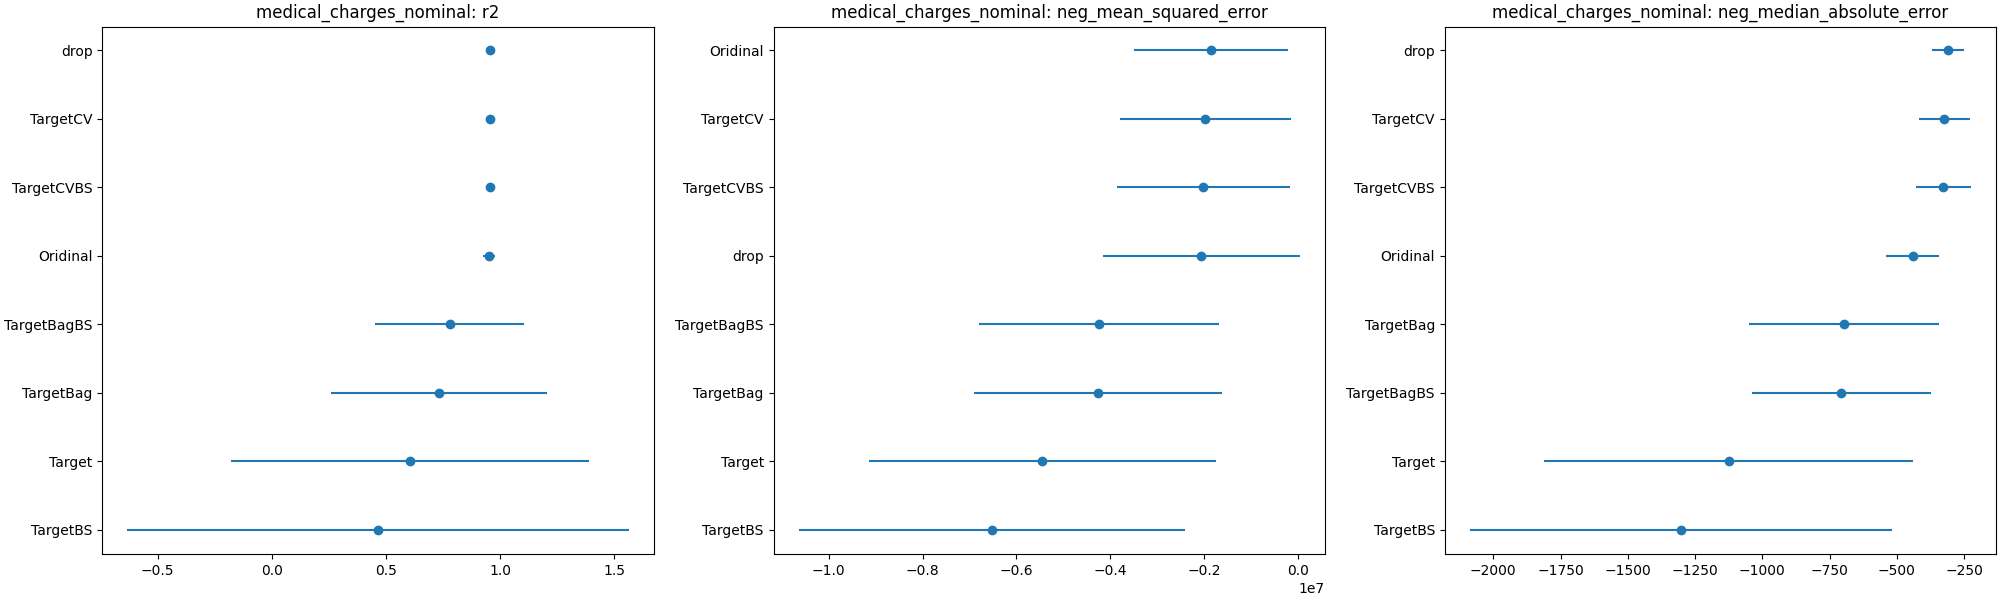
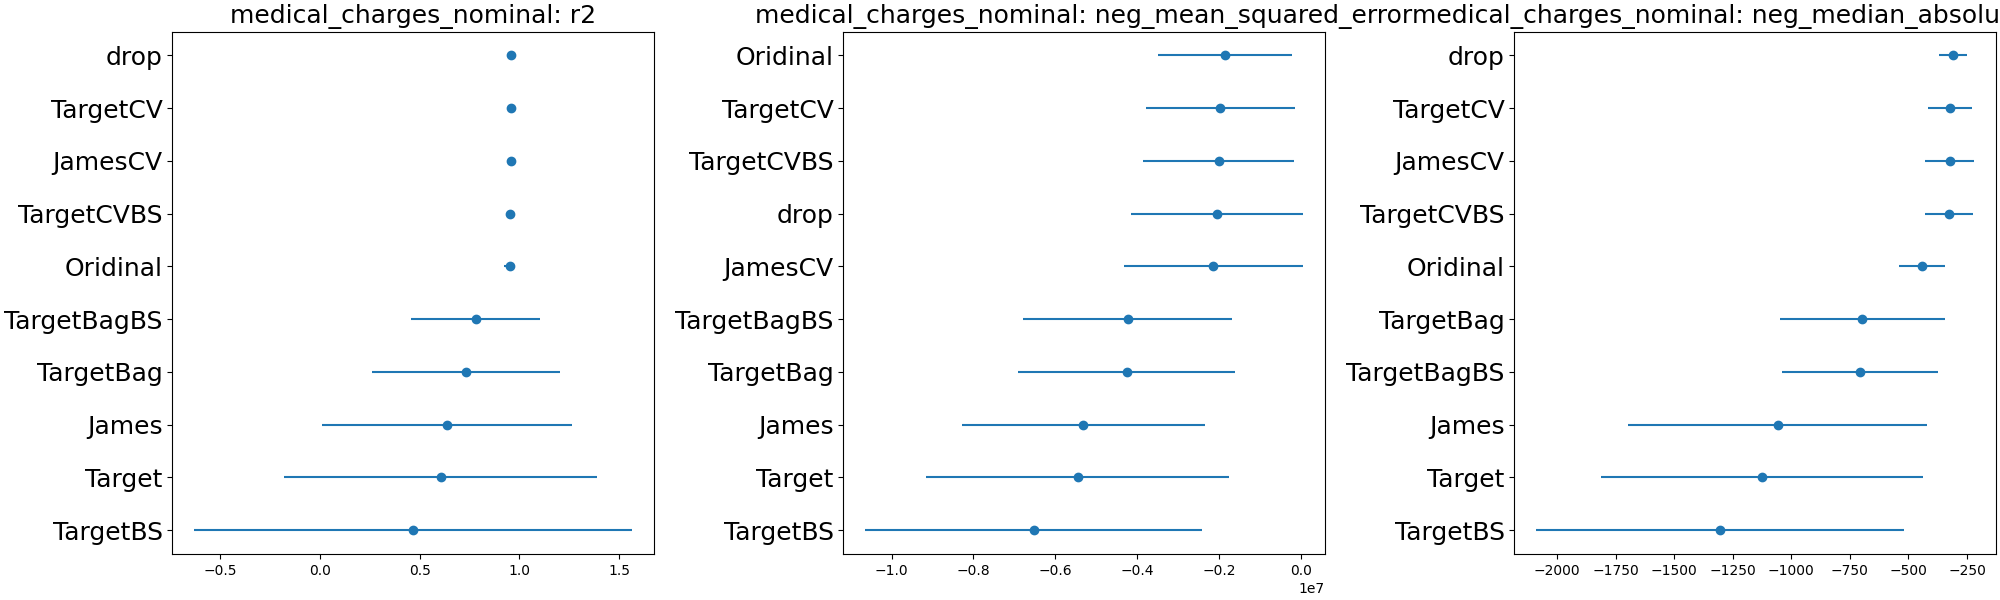
ENH Make figures bigger

diff --git a/generate_report.py b/generate_report.py
@@ -53,10 +53,6 @@ def plot_metric_for_name(
         return mapping.get(item, item)
 
     results_data_name["encoder"] = results_data_name["encoder"].map(map_it)
-    # Remove James
-    results_data_name = results_data_name[
-        ~results_data_name["encoder"].str.startswith("James")
-    ]
 
     results_data_name_sorted = results_data_name.sort_values(f"test_{metric_name}_mean")
     null_encoders = ~results_data_name_sorted[f"test_{metric_name}_mean"].isna()
@@ -72,8 +68,10 @@ def plot_metric_for_name(
         marker="o",
     )
     ax.set_yticks(y_values)
-    ax.set_yticklabels(results_data_name_sorted.loc[null_encoders, "encoder"])
-    ax.set_title(f"{data_name}: {metric_name}")
+    ax.set_yticklabels(
+        results_data_name_sorted.loc[null_encoders, "encoder"], fontsize=18
+    )
+    ax.set_title(f"{data_name}: {metric_name}", fontsize=18)
 
 
 def plot_all_metrics(data_name, results_df):
